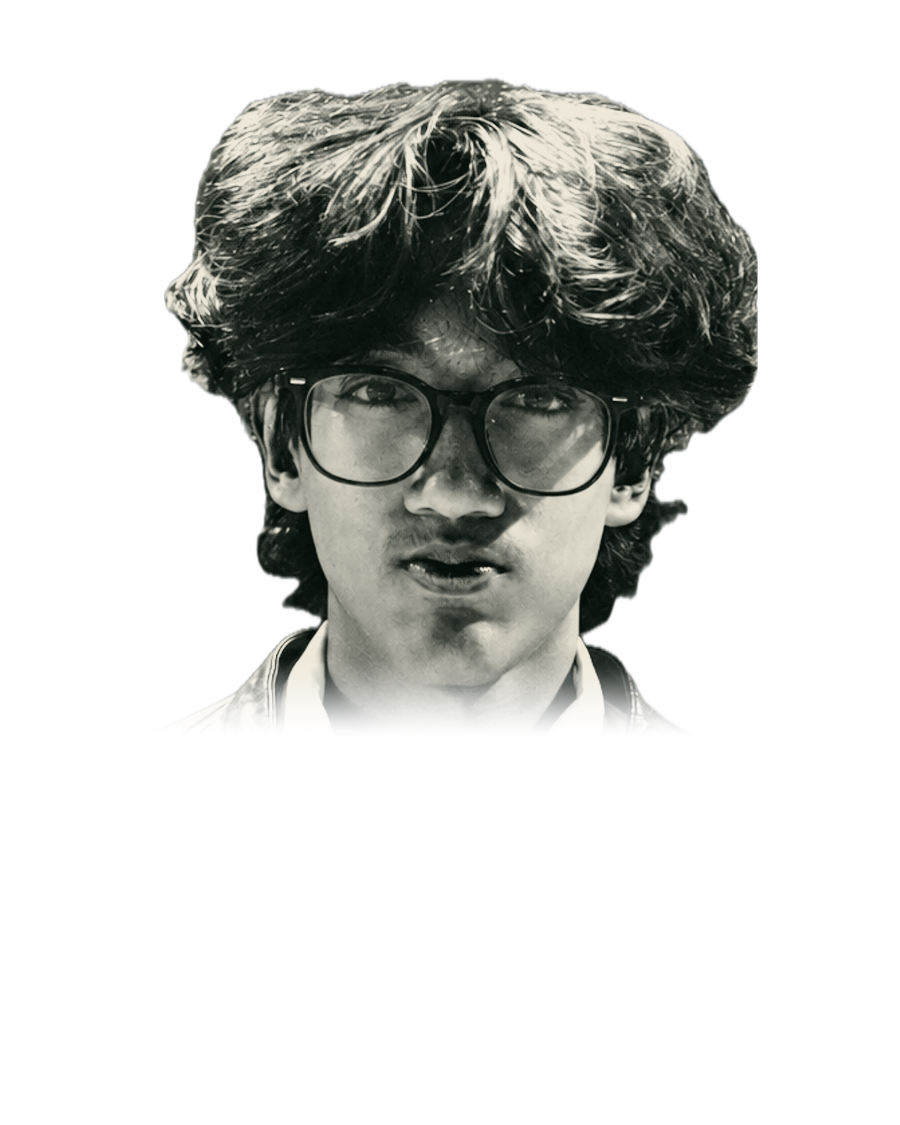
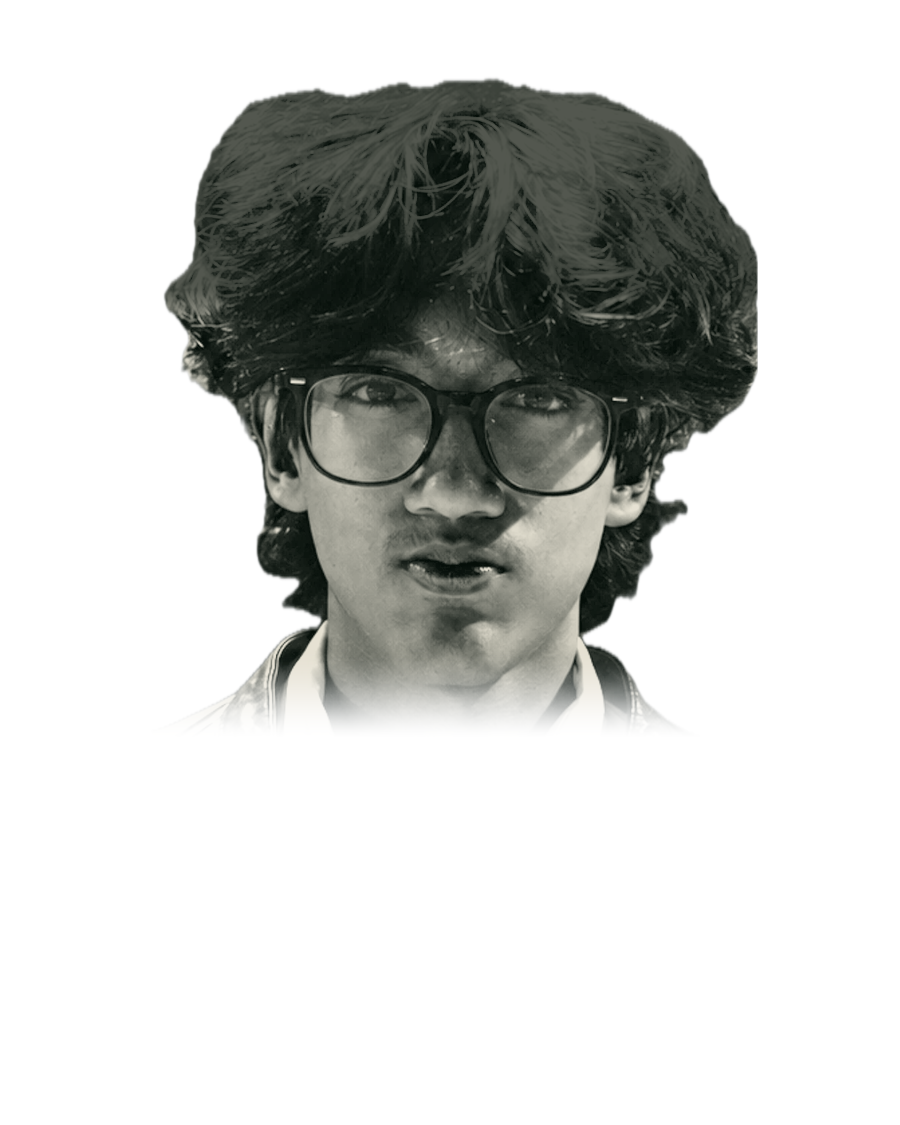
Brighter hero, vivid pot, calmer team portraits
Reframe the hero model lower and further from the nav, darken the stage,
saturate the pot and base, even out Vedant's portrait highlights and drop
the role lines under team names.

Changed region(s): [[0.1867, 0.0622, 0.84, 0.3111]]

diff --git a/components/three/engine.ts b/components/three/engine.ts
@@ -86,12 +86,12 @@ function storyLook(p: number, narrow: boolean): Look {
   const cut = ramp(p, [[STORY.flowIn[0] + 0.02, 0], [STORY.flowIn[1] + 0.02, 1]]);
   const comp = narrow
     ? ramp(p, [[0, 0], [1, 0]])
-    : ramp(p, [[0, 0.47], [STORY.heroOut, 0.47], [STORY.explode[1], 0], [STORY.labels[1], 0], [STORY.flowIn[1], -0.4], [1, -0.4]]);
+    : ramp(p, [[0, 0.38], [STORY.heroOut, 0.38], [STORY.explode[1], 0], [STORY.labels[1], 0], [STORY.flowIn[1], -0.4], [1, -0.4]]);
   const compY = narrow
     ? ramp(p, [[0, 0.5], [STORY.heroOut, 0.5], [STORY.explode[1], 0.2], [STORY.labels[1], 0.2], [STORY.flowIn[1], 0.36]])
-    : ramp(p, [[0, 0.08], [STORY.heroOut, 0.08], [STORY.explode[1], 0.02], [STORY.labels[1], 0.02], [STORY.flowIn[1], 0.1]]);
-  const fitH = ramp(p, [[0, 3.4], [STORY.heroOut, 3.4], [STORY.explode[1], 7.4], [STORY.labels[1], 7.4], [STORY.flowIn[1], 3.25]]);
-  const fitW = narrow ? ramp(p, [[0, 0.62], [STORY.heroOut, 0.62], [STORY.explode[1], 0.95], [STORY.labels[1], 0.95], [STORY.flowIn[1], 0.62]]) : ramp(p, [[0, 0.4], [STORY.heroOut, 0.4], [STORY.explode[1], 0.34], [STORY.labels[1], 0.34], [STORY.flowIn[1], 0.46]]);
+    : ramp(p, [[0, -0.01], [STORY.heroOut, -0.01], [STORY.explode[1], 0.02], [STORY.labels[1], 0.02], [STORY.flowIn[1], 0.1]]);
+  const fitH = ramp(p, [[0, 4.7], [STORY.heroOut, 4.7], [STORY.explode[1], 7.4], [STORY.labels[1], 7.4], [STORY.flowIn[1], 3.25]]);
+  const fitW = narrow ? ramp(p, [[0, 0.62], [STORY.heroOut, 0.62], [STORY.explode[1], 0.95], [STORY.labels[1], 0.95], [STORY.flowIn[1], 0.62]]) : ramp(p, [[0, 0.38], [STORY.heroOut, 0.38], [STORY.explode[1], 0.34], [STORY.labels[1], 0.34], [STORY.flowIn[1], 0.46]]);
   const pitch = ramp(p, [[0, 0.3], [STORY.explode[1], 0.2], [STORY.labels[1], 0.24], [STORY.flowIn[1], 0.1]]);
   const spin = ramp(p, [[0, 1], [STORY.explode[0], 1], [STORY.explode[1], 0.25], [STORY.labels[1], 0.25], [STORY.flowIn[0], 0]]);
   const li = (p - STORY.labels[0]) / ((STORY.labels[1] - STORY.labels[0]) / 5);
@@ -155,12 +155,12 @@ export function createEngine(canvas: HTMLCanvasElement, opts: EngineOptions): En
   renderer.setPixelRatio(Math.min(window.devicePixelRatio, Q.dpr));
   renderer.outputColorSpace = THREE.SRGBColorSpace;
   renderer.toneMapping = THREE.ACESFilmicToneMapping;
-  renderer.toneMappingExposure = 1.05;
+  renderer.toneMappingExposure = 1.12;
   renderer.shadowMap.enabled = Q.shadows;
   renderer.shadowMap.type = THREE.PCFShadowMap;
   renderer.localClippingEnabled = true;
 
-  const FOG = new THREE.Color('#030805');
+  const FOG = new THREE.Color('#010201');
   const scene = new THREE.Scene();
   scene.background = FOG.clone();
   scene.fog = new THREE.FogExp2(FOG, 0.035);
@@ -168,12 +168,12 @@ export function createEngine(canvas: HTMLCanvasElement, opts: EngineOptions): En
   const pmrem = new THREE.PMREMGenerator(renderer);
   const env = pmrem.fromScene(new RoomEnvironment(), 0.04).texture;
   scene.environment = env;
-  scene.environmentIntensity = 0.55;
+  scene.environmentIntensity = 0.7;
 
   const camera = new THREE.PerspectiveCamera(28, 1, 0.1, 120);
 
   /* lights */
-  const key = new THREE.DirectionalLight('#fff4e2', 2.4);
+  const key = new THREE.DirectionalLight('#fff4e2', 3.2);
   key.position.set(-3.5, 6, 4);
   key.castShadow = Q.shadows;
   key.shadow.mapSize.set(2048, 2048);
@@ -189,7 +189,11 @@ export function createEngine(canvas: HTMLCanvasElement, opts: EngineOptions): En
   const rim2 = new THREE.DirectionalLight('#5fd4e0', 1.1);
   rim2.position.set(-5, 1, -3);
   scene.add(rim2);
-  scene.add(new THREE.HemisphereLight('#cfe9d8', '#0a120d', 0.35));
+  scene.add(new THREE.HemisphereLight('#e6f4ea', '#0a120d', 0.45));
+  // soft front fill so the product reads bright against the dark stage
+  const fill = new THREE.DirectionalLight('#ffffff', 0.75);
+  fill.position.set(1.5, 2, 7);
+  scene.add(fill);
 
   /* model */
   const model = buildModel({ shadows: Q.shadows });
@@ -214,7 +218,7 @@ export function createEngine(canvas: HTMLCanvasElement, opts: EngineOptions): En
   const FLOOR_Y = -1.55;
   const floorMat = new THREE.ShaderMaterial({
     vertexShader: basicVert, fragmentShader: floorFrag,
-    uniforms: { uColor: { value: new THREE.Color('#7fd86b') }, uOpacity: { value: 0.36 }, uFocus: { value: new THREE.Vector3() } },
+    uniforms: { uColor: { value: new THREE.Color('#7fd86b') }, uOpacity: { value: 0.24 }, uFocus: { value: new THREE.Vector3() } },
     transparent: true, depthWrite: false, fog: false,
   });
   const floor = new THREE.Mesh(new THREE.PlaneGeometry(60, 60), floorMat);

diff --git a/components/three/model.ts b/components/three/model.ts
@@ -69,7 +69,7 @@ const WINDOW_HW = 0.27;
 const WINDOW_Y = [0.12, 0.32];
 const WICK_Y = [0.06, 1.75];
 
-const GREEN = '#1f5b40';
+const GREEN = '#17704a';
 const ARROW = '#5cc8ff';
 
 /* ---------------------------------------------------------------- helpers */
@@ -212,9 +212,9 @@ function leafGeometry(rand: () => number) {
   const pos: number[] = [];
   const col: number[] = [];
   const idx: number[] = [];
-  const deep = new THREE.Color('#2d7a2e');
-  const mid = new THREE.Color('#4f9e3a');
-  const light = new THREE.Color('#8fcf5a');
+  const deep = new THREE.Color('#237a26');
+  const mid = new THREE.Color('#3f9e33');
+  const light = new THREE.Color('#86cf52');
   const tmp = new THREE.Color();
   const tint = rand() * 0.25;
   for (let j = 0; j <= V; j++) {
@@ -444,7 +444,7 @@ export function buildModel(opts: { shadows: boolean }): Model {
   const plate = part('platform', 1.72, PLATE_Y0 + 0.04, 1.29);
   {
     const g = plate.group;
-    const m = plastic('#22634a');
+    const m = plastic('#1b7d52');
     const RP = 1.27;
     const FIN_PHI = [Math.PI / 4, (3 * Math.PI) / 4, (5 * Math.PI) / 4, (7 * Math.PI) / 4];
 
@@ -524,7 +524,7 @@ export function buildModel(opts: { shadows: boolean }): Model {
   {
     const g = pot.group;
     const clay = track(new THREE.MeshStandardMaterial({
-      color: '#ffffff', map: track(noiseTexture('#c76c43', 14, [120, 60, 30])), roughness: 0.9, metalness: 0,
+      color: '#ffffff', map: track(noiseTexture('#e2581f', 10, [150, 55, 20])), roughness: 0.72, metalness: 0,
     }));
     clay.map!.repeat.set(5, 2);
     const H = POT_H;

diff --git a/components/three/shaders.ts b/components/three/shaders.ts
@@ -244,7 +244,7 @@ export const gradeShader = {
       c.rgb *= mix(1.0, v, uVignette);
       // lift shadows toward the brand's deep green
       float l = dot(c.rgb, vec3(0.299, 0.587, 0.114));
-      c.rgb += vec3(0.004, 0.016, 0.010) * (1.0 - smoothstep(0.0, 0.25, l));
+      c.rgb += vec3(0.001, 0.004, 0.002) * (1.0 - smoothstep(0.0, 0.25, l));
       c.rgb += (hash(vUv * 1000.0 + fract(uTime)) - 0.5) * uGrain;
       gl_FragColor = c;
     }

diff --git a/components/home/Team.tsx b/components/home/Team.tsx
@@ -68,7 +68,6 @@ function Card({ m, i }: { m: (typeof team)[number]; i: number }) {
       })()}
       <div className="member-meta">
         <h3 className="member-name"><span>{first}</span> <span>{rest.join(' ')}</span></h3>
-        <p className="member-role">{m.role}</p>
       </div>
     </li>
   );

diff --git a/app/globals.css b/app/globals.css
@@ -12,8 +12,8 @@
    ========================================================================== */
 
 :root {
-  --void: #030805;
-  --ink: #06100a;
+  --void: #010201;
+  --ink: #050d08;
   --ink-2: #0a1710;
   --moss: #0f2219;
 

diff --git a/app/layout.tsx b/app/layout.tsx
@@ -43,7 +43,7 @@ export const metadata: Metadata = {
 };
 
 export const viewport: Viewport = {
-  themeColor: '#030805',
+  themeColor: '#010201',
   colorScheme: 'dark',
 };
 

diff --git a/scripts/portraits.py b/scripts/portraits.py
@@ -12,6 +12,10 @@ FACES = {  # Vision face boxes (normalised, origin bottom-left)
   "9": (0.2599, 0.2346, 0.4661, 0.2784),
 }
 SCALE_FIX = {"9": 0.74}  # Vision boxed Vedant's face tight; bring him in line with the others
+# Vedant's photo was shot under hard top light: pull exposure down and roll off
+# the highlights so the hair glare matches the other three.
+FACE_TARGET = {"9": 0.42}
+SHOULDER = {"9": (0.32, 0.22)}  # knee, slope above the knee
 NAMES = {"6": "chng-en", "7": "christian-huray", "8": "shaurya-wadhawan", "9": "vedant-rastogi"}
 W, H = 900, 1125
 FACE_H, CX, CY = 0.34, 0.5, 0.42
@@ -37,7 +41,7 @@ for k, (fx, fy, fw, fh) in FACES.items():
     y0, y1 = int(H * CY - fh_px * 0.25), int(H * CY + fh_px * 0.25)
     x0, x1 = int(W * CX - fh_px * 0.25), int(W * CX + fh_px * 0.25)
     face_l = float(np.median(rgb[y0:y1, x0:x1] @ LUMA))
-    g = np.log(0.48) / np.log(max(face_l, 1e-3))
+    g = np.log(FACE_TARGET.get(k, 0.48)) / np.log(max(face_l, 1e-3))
     rgb = np.clip(rgb, 1e-4, 1) ** g
     # neutralise casts using the face only, then calm saturation
     means = rgb[y0:y1, x0:x1].reshape(-1, 3).mean(axis=0)
@@ -60,7 +64,14 @@ for k, (fx, fy, fw, fh) in FACES.items():
     sel = (alpha > 0.5) & (yy < chin)
     lo, hi = np.percentile(l[sel], 3), np.percentile(l[sel], 97)
     l = np.clip((l - lo) / (hi - lo) * 0.88 + 0.04, 0, 1)
-    l = l * l * (3 - 2 * l) * 0.6 + l * 0.4
+    if k in SHOULDER:
+        # darken and compress only the hair, above the forehead
+        knee, slope = SHOULDER[k]
+        brow = H * CY - fh_px * 0.32
+        hm = np.clip((brow - yy) / (fh_px * 0.18), 0, 1)
+        hm = hm * hm * (3 - 2 * hm)
+        hair = (np.minimum(l, knee) + np.maximum(l - knee, 0) * slope) * 0.72
+        l = l * (1 - hm) + hair * hm
     tone = SHADOW + (LIGHT - SHADOW) * l[..., None]
     Image.fromarray((np.dstack([tone, alpha]) * 255).astype(np.uint8)).save(f"{out}/{NAMES[k]}-tone.png", optimize=True)
     print(NAMES[k], round(s, 2), round(float(face_l), 3), round(float(g), 2))
